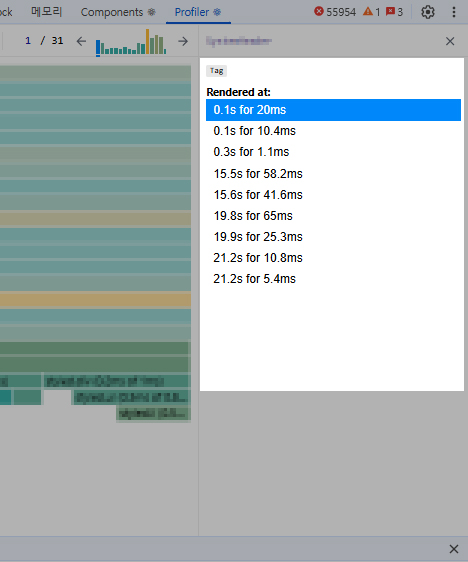
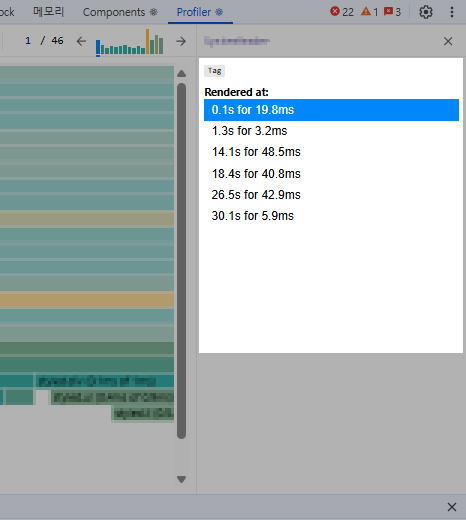
수정

diff --git a/_posts/2025/2025-10-17-frontend_react_state_refactoring.md b/_posts/2025/2025-10-17-frontend_react_state_refactoring.md
@@ -150,32 +150,86 @@ const linkBtnIcon = useMemo(() => {
 }, [isBlack]);
 ```
 
+
+## 비동기 상태 업데이트도 최적화하자
+
+렌더링은 상태뿐 아니라 비동기 처리 방식에도 큰 영향을 받는다.  
+특히 `axios`나 `fetch` 같은 요청에서 여러 개의 setState를 순차로 호출하면 React가 각각을 별도의 렌더 주기로 처리해 불필요한 렌더가 누적될 수 있다.  
+
+예를 들어 아래와 같은 코드가 있다.  
+
+```jsx
+async function handleColor() {
+  let data = [];
+  for (let cl of colorList) {
+    const res = await axios.get(`/api/color?id=${cl.id}`);
+    if (res.data.type === "success") {
+      data.push(res.data.data[0]);
+    }
+  }
+  setColors(data);
+  setPopOpen(true);
+}
+```
+이 코드는 요청을 순차적으로 처리하기 때문에 전체 요청 시간이 길고 각 요청이 끝날 때마다 이벤트 루프가 잠시 멈추며 React의 렌더링 타이밍이 지연된다.  
+
+이를 `Promise.all`로 병렬화하면 모든 요청이 완료된 뒤 한 번에 상태를 변경할 수 있다.  
+
+```jsx
+const handleColor = useCallback(async () => {
+  const res = await Promise.all(
+    colorList.map((cl) =>
+      axios.get(`/api/color?id=${cl.id}`)
+    )
+  );
+
+  const data = res
+    .map((r) => r.data)
+    .filter((r) => r.type === "success")
+    .flatMap((r) => r.data);
+
+  setColors(data);
+  setPopOpen(true);
+}, [colorList]);
+```
+
+이렇게 바꾸면 렌더링 횟수가 확연히 줄어든다.  
+<!-- React 18부터는 비동기 이벤트 내에서도 자동 배칭이 적용되어 같은 tick 안의 여러 상태 변경(setIndicators, setPopOpen)이 한 번의 렌더(commit) 로 병합된다. -->
+즉, 여러 번 나눠서 렌더하던 것을 한 번에 처리하게 되는 셈이다.  
+
 ## Profiler로 확인한 차이
 
 리팩토링의 전후를 React DevTools Profiler로 비교했다.  
-UI는 같지만 렌더링 패턴은 확실히 달랐다.    
+UI 동작은 완전히 동일하지만 렌더링 횟수와 시간에서 눈에 띄는 차이가 나타났다!      
 
 ![As-Is](/assets/images/post/2025/2025-10-17-frontend_react_state_refactoring_as_is.jpg)  *As-Is*
 
-<!-- ![To-Be](/assets/images/post/2025/2025-10-17-frontend_react_state_refactoring_to_be.jpg)  *To-Be* -->
+![To-Be](/assets/images/post/2025/2025-10-17-frontend_react_state_refactoring_to_be.jpg)  *To-Be*
 
 
 ### 비교분석
 
-| 항목                  | As-Is       | To-Be       | 개선 효과                                 |
-| ------------------- | ----------- | ----------- | ------------------------------------- |
-| **렌더 횟수**           | 9회          | 9회          | 동일 (측정 시나리오 동일)                       |
-| **초기 렌더링 (0~0.3s)** | 37.4 ms   | 31.5 ms | 🔽 약 15.8% 개선  (불필요한 `useState` 초기화 제거 효과)             |
+| 항목 | As-Is | To-Be | 변화 및 해석 |
+|------|------:|------:|--------------|
+| **렌더 횟수** | 9회 | 6회 | 🔽 **-33 % 감소** — React의 자동 배칭과 상태 업데이트 병합으로 불필요한 커밋이 줄어듦 |
+| **총 렌더링 시간 합계** | 252.8 ms | 161.1 ms | 🔽 **-36 % 개선** — 비동기 루프(`Promise.all`)와 `useCallback` 안정화로 렌더 시점 병합 |
+| **평균 렌더링 시간** | 28.1 ms | 26.9 ms | 🔽 **-4 % 개선** — 렌더 1회당 비용은 거의 동일하지만 횟수 감소로 전체 시간 단축 |
+| **최댓값(피크 렌더)** | 52.9 ms | 48.5 ms | 🔽 **-8 % 개선** — 연속 렌더 제거 효과 |
+| **초기 렌더링(0 ~ 1 s)** | 37.4 ms | 23.0 ms | 🔽 **-38 % 개선** — 불필요한 `useState` 초기화 및 의존성 연쇄 제거 |
 
-초기 렌더링 속도가 개선되었다. useState 초기화 과정이 줄어들면서 불필요한 렌더링이 사라졌기 때문이다.
 
+리팩토링 이후 렌더 횟수가 9회에서 6회로 감소되었고 총 렌더링 시간도 약 36% 단축되었다!!  
+
+이는 `useCallback`, `useMemo`를 통해 함수와 값을 안정화하고 비동기 루프를 `Promise.all`로 병렬화해 React의 자동 배칭이 효율적으로 작동한 결과다. ㅎㅎ  
+
+---
 
 React를 사용하다 보면 항상 신중해지는 질문이 있다. 
 > "이 값은 정말 상태여야 할까?"
 
-이번 리팩토링은 그 질문에 대한 좋은 사례였다.  
-state를 줄였을 뿐인데 렌더링이 훨씬 안정적이고 가벼워졌다.  
-useCallback과 useMemo를 함께 사용해 불필요한 함수와 값의 재생성까지 줄이니 React의 렌더링 사이클이 훨씬 단순해졌다.  
+이번 리팩토링은 그 질문에 대한 좋은 사례가 되었다.  
+state를 줄이고, 렌더 타이밍을 개선함으로써 렌더링이 훨씬 안정적이고 가벼워졌다.    
+또한, useCallback과 useMemo를 함께 사용해 불필요한 함수와 값의 재생성까지 줄이니 React의 렌더링 사이클이 훨씬 단순해졌다.  
 
-결국 상태 관리의 핵심은 "무엇을 기억하지 않을 것인가"를 결정하는 일이다.  
-필요한 것만 기억하고, 나머지는 계산하자. 그게 React를 빠르고 효율적으로 만드는 가장 확실한 방법이다.
+상태 관리의 핵심은 "무엇을 기억하지 않을 것인가"를 결정하는 일이다.  
+필요한 것만 기억하고 나머지는 필요할 때 다시 구하는 것이 React를 빠르고 효율적으로 만드는 확실한 방법이다.
